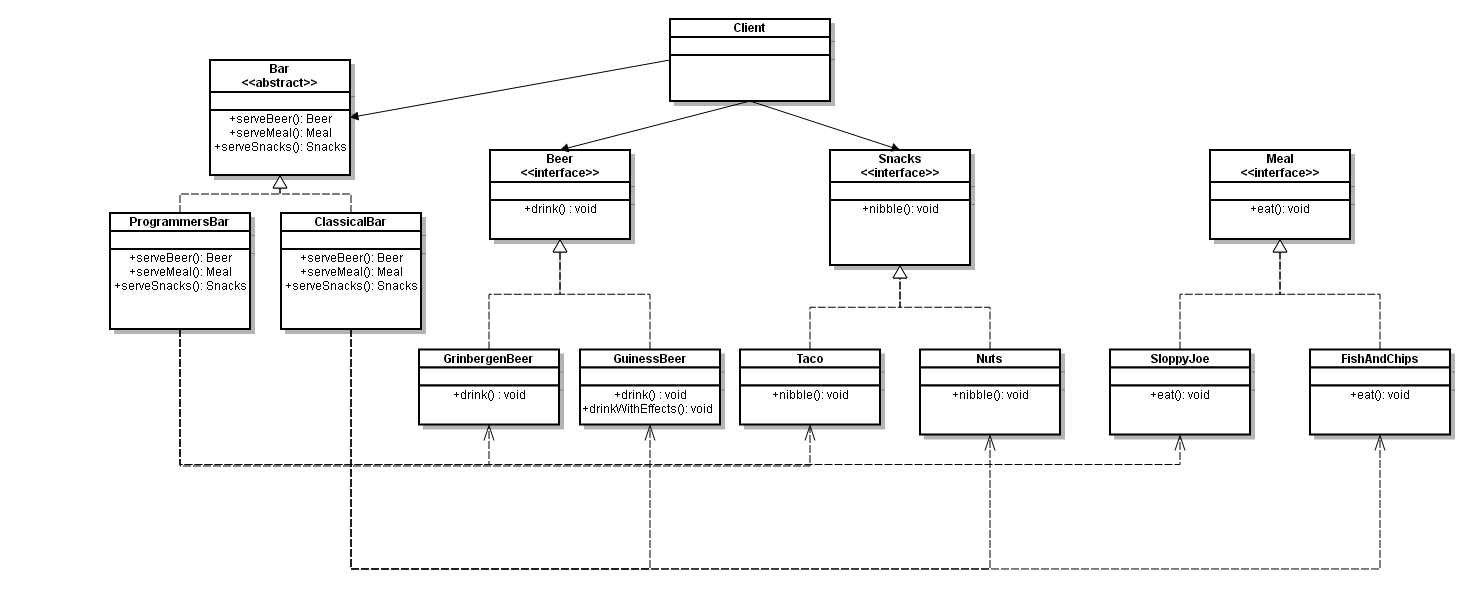
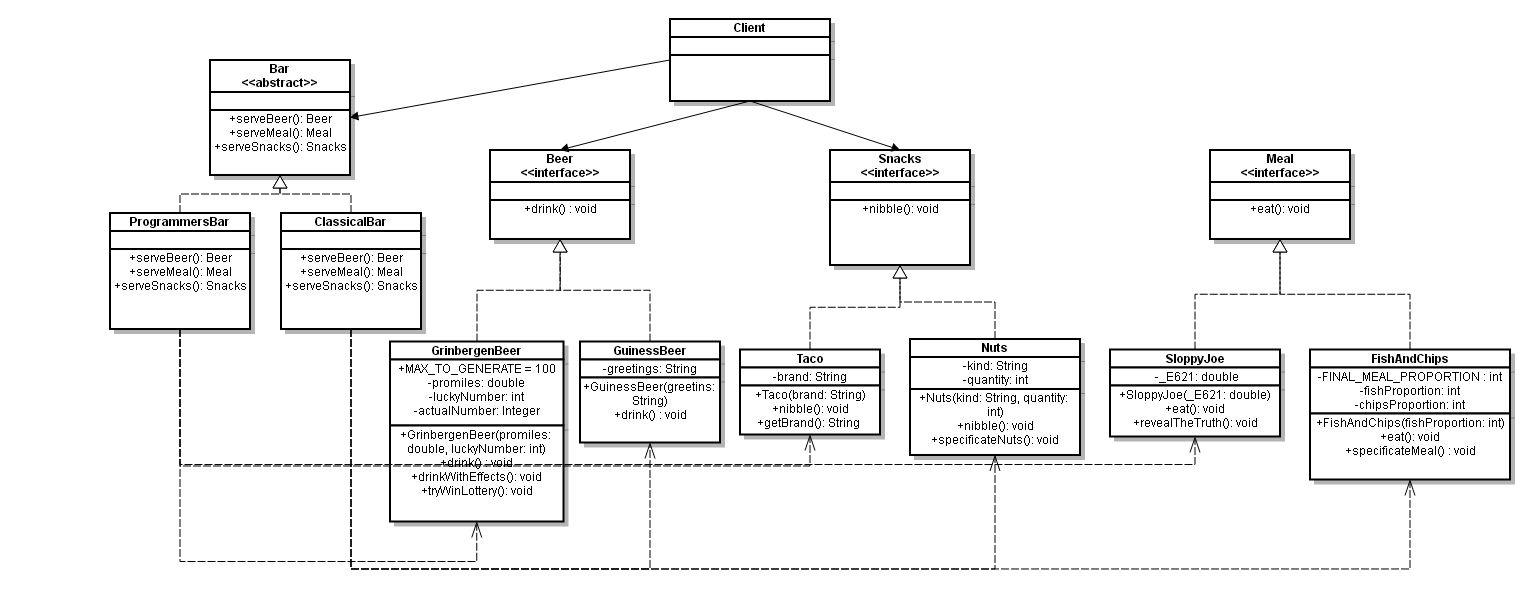
Add more parameters to Abstract Factory using method producer and update UML!!

diff --git a/ObjectiveTechnologies/AbstractFactory/MethodProducer/src/com/toohightoplay/vu/mif/ot1/products/GrinbergenBeer.java b/ObjectiveTechnologies/AbstractFactory/MethodProducer/src/com/toohightoplay/vu/mif/ot1/products/GrinbergenBeer.java
@@ -1,17 +1,50 @@
 package com.toohightoplay.vu.mif.ot1.products;
 
+import java.security.SecureRandom;
+
 /**
  * @author TooHighToPlay
  */
 public class GrinbergenBeer implements Beer {
-
+	
+	public static final int MAX_TO_GENERATE = 100;
+	
+	private double promiles;
+	
+	private int luckyNumber;
+	
+	private Integer actualNumber = null;
+	
+	/**
+	 * I would choose luckyNumber wisely. [0..100]???
+	 * 
+	 * @param promiles
+	 * @param luckyNumber
+	 */
+	public GrinbergenBeer(double promiles, int luckyNumber) {
+		this.promiles = promiles;
+		this.luckyNumber = luckyNumber;
+	}
+	
+	public void tryWinLottery() {
+		if (actualNumber == null) {
+			SecureRandom randomGenerator = new SecureRandom();
+			actualNumber = randomGenerator.nextInt(MAX_TO_GENERATE);
+		}
+		if (actualNumber == luckyNumber) {
+			System.out.println("U, the Mighty Warrior of the Great Wall Of Justice please welcome a gift for you. "
+					+ "Now you can code Clojure. Yes,.. it's not a dream.. If it is then dreams come true...");
+		}
+		System.out.println("U lost the lotterry sir. Try another time");
+	}
+	
     @Override
     public void drink() {
-    	System.out.println("I drank this Grinbergen almost as fast as Rob Ashton.");
+    	System.out.println("I drank this " + promiles + " promiles Grinbergen almost as fast as Rob Ashton.");
     }
     
     public void drinkWithEffects() {
     	System.out.println("I drasgsf thisss Grinbergen with an attitude. Be my paladin, be my guest, you will always be loved. Just bring me moore beer");
     }
-
+    
 }

diff --git a/ObjectiveTechnologies/AbstractFactory/MethodProducer/src/com/toohightoplay/vu/mif/ot1/factories/ProgrammersBar.java b/ObjectiveTechnologies/AbstractFactory/MethodProducer/src/com/toohightoplay/vu/mif/ot1/factories/ProgrammersBar.java
@@ -1,5 +1,7 @@
 package com.toohightoplay.vu.mif.ot1.factories;
 
+import java.security.SecureRandom;
+
 import com.toohightoplay.vu.mif.ot1.products.Beer;
 import com.toohightoplay.vu.mif.ot1.products.GrinbergenBeer;
 import com.toohightoplay.vu.mif.ot1.products.Meal;
@@ -15,19 +17,24 @@ public class ProgrammersBar extends Bar {
     @Override
     public Snacks serveSnacks() {
 
-        return new Taco();
+        return new Taco("Mexican");
     }
 
     @Override
     public Meal serveMeal() {
 
-        return new SloppyJoe();
+        return new SloppyJoe(1.8);
     }
 
     @Override
     public Beer serveBeer() {
-
-        return new GrinbergenBeer();
+    	
+        return new GrinbergenBeer(5.8, generateLuckyNumber());
+    }
+    
+    private int generateLuckyNumber() {
+    	SecureRandom randomGenerator = new SecureRandom();
+    	return randomGenerator.nextInt(GrinbergenBeer.MAX_TO_GENERATE);
     }
 
 }

diff --git a/ObjectiveTechnologies/AbstractFactory/MethodProducer/src/com/toohightoplay/vu/mif/ot1/products/SloppyJoe.java b/ObjectiveTechnologies/AbstractFactory/MethodProducer/src/com/toohightoplay/vu/mif/ot1/products/SloppyJoe.java
@@ -1,13 +1,34 @@
 package com.toohightoplay.vu.mif.ot1.products;
 
+import java.security.SecureRandom;
+
 /**
  * @author TooHighToPlay
  */
 public class SloppyJoe implements Meal {
 
+	private double _E621;
+	
+	/**
+	 * Quantity of specific and special ingredient must be provided.
+	 * 
+	 * @param _E621
+	 */
+	public SloppyJoe(double _E621) {
+		this._E621 = _E621;
+	}
+	
     @Override
     public void eat() {
     	System.out.println("Eating some delicious Sloppy Joe.. Mhm..");
     }
 
+    /**
+     * Reveals quantity of special ingredient.
+     */
+    public void revealTheTruth() {
+    	SecureRandom randomGenerator = new SecureRandom();
+    	System.out.println("Burger contains not so much but not so less E621, the Mighty Taste of All Time. It equals " 
+    			+ (_E621 * randomGenerator.nextInt()) + " milligrams of goodness. :)");
+    }
 }

diff --git a/ObjectiveTechnologies/AbstractFactory/MethodProducer/src/com/toohightoplay/vu/mif/ot1/products/FishAndChips.java b/ObjectiveTechnologies/AbstractFactory/MethodProducer/src/com/toohightoplay/vu/mif/ot1/products/FishAndChips.java
@@ -5,9 +5,28 @@ package com.toohightoplay.vu.mif.ot1.products;
  */
 public class FishAndChips implements Meal {
 
+	private int FINAL_MEAL_PROPORTION = 100;
+	
+	private int fishProportion;
+	
+	private int chipsProportion;
+
+	/**
+	 * Provide fish proportion. (Chips proportion will be 100-fishProportion)
+	 * @param fishProportion
+	 */
+	public FishAndChips(int fishProportion) {
+		this.fishProportion = fishProportion;
+		this.chipsProportion = FINAL_MEAL_PROPORTION - fishProportion;
+	}
+	
     @Override
     public void eat() {
     	System.out.println("Eating like in London pub.");
+    }
+    
+    public void specificateMeal() {
+    	System.out.println("This meal contains " + fishProportion + "% of fish and " + chipsProportion + "% of chips. Bon apetitte!");
     }
 
 }

diff --git a/ObjectiveTechnologies/AbstractFactory/MethodProducer/src/com/toohightoplay/vu/mif/ot1/products/Nuts.java b/ObjectiveTechnologies/AbstractFactory/MethodProducer/src/com/toohightoplay/vu/mif/ot1/products/Nuts.java
@@ -5,9 +5,28 @@ package com.toohightoplay.vu.mif.ot1.products;
  */
 public class Nuts implements Snacks {
 
+	private String kind;
+	
+	private int quantity;
+	
+	/**
+	 * Provide nut kind and quantity (grams).
+	 * 
+	 * @param kind
+	 * @param quantity
+	 */
+	public Nuts(String kind, int quantity) {
+		this.kind = kind;
+		this.quantity = quantity;
+	}
+	
 	@Override
 	public void nibble() {
 		System.out.println("Taking some nuts. Nibling..");
+	}
+	
+	public void specificateNuts() {
+		System.out.println("Here you are some " + kind + " nuts. Quantity equals " + quantity + " g. Have a great time dealing with them.");
 	}
 
 }

diff --git a/ObjectiveTechnologies/AbstractFactory/MethodProducer/src/com/toohightoplay/vu/mif/ot1/products/GuinessBeer.java b/ObjectiveTechnologies/AbstractFactory/MethodProducer/src/com/toohightoplay/vu/mif/ot1/products/GuinessBeer.java
@@ -5,9 +5,22 @@ package com.toohightoplay.vu.mif.ot1.products;
  */
 public class GuinessBeer implements Beer {
 
+	private String greetings;
+	
+	public GuinessBeer(String greetings) {
+		this.greetings = greetings;
+	}
+	
     @Override
     public void drink() {
         System.out.println("Gently and softly.. Sip by sip.");
+    }
+    
+    /**
+     * Greeting letter from you princess.
+     */
+    public void readGreeting() {
+    	System.out.println(greetings);
     }
 
 }

diff --git a/ObjectiveTechnologies/AbstractFactory/MethodProducer/src/com/toohightoplay/vu/mif/ot1/factories/ClassicalBar.java b/ObjectiveTechnologies/AbstractFactory/MethodProducer/src/com/toohightoplay/vu/mif/ot1/factories/ClassicalBar.java
@@ -15,18 +15,18 @@ public class ClassicalBar extends Bar {
     @Override
     public Snacks serveSnacks() {
 
-        return new Nuts();
+        return new Nuts("almonds" , 50);
     }
 
     @Override
     public Meal serveMeal() {
 
-        return new FishAndChips();
+        return new FishAndChips(20);
     }
 
     @Override
     public Beer serveBeer() {
 
-        return new GuinessBeer();
+        return new GuinessBeer("Taste it. Believe it.");
     }
 }

diff --git a/ObjectiveTechnologies/AbstractFactory/MethodProducer/src/com/toohightoplay/vu/mif/ot1/Client.java b/ObjectiveTechnologies/AbstractFactory/MethodProducer/src/com/toohightoplay/vu/mif/ot1/Client.java
@@ -5,10 +5,7 @@ import java.util.Scanner;
 import com.toohightoplay.vu.mif.ot1.factories.Bar;
 import com.toohightoplay.vu.mif.ot1.factories.ClassicalBar;
 import com.toohightoplay.vu.mif.ot1.factories.ProgrammersBar;
-import com.toohightoplay.vu.mif.ot1.products.Beer;
 import com.toohightoplay.vu.mif.ot1.products.GrinbergenBeer;
-import com.toohightoplay.vu.mif.ot1.products.Meal;
-import com.toohightoplay.vu.mif.ot1.products.Snacks;
 
 /**
  * @author TooHighToPlay

diff --git a/ObjectiveTechnologies/AbstractFactory/MethodProducer/src/com/toohightoplay/vu/mif/ot1/products/Taco.java b/ObjectiveTechnologies/AbstractFactory/MethodProducer/src/com/toohightoplay/vu/mif/ot1/products/Taco.java
@@ -5,9 +5,19 @@ package com.toohightoplay.vu.mif.ot1.products;
  */
 public class Taco implements Snacks {
 
+	private String brand;
+	
+	public Taco(String brand) {
+		this.brand = brand;
+	}
+	
 	@Override
 	public void nibble() {
 		System.out.println("Taco is my favorite hero. Can I order one more?");
+	}
+	
+	public String getBrand() {
+		return this.brand;
 	}
 
 }

diff --git a/ObjectiveTechnologies/AbstractFactory/MethodProducer/src/com/toohightoplay/vu/mif/ot1/products/Beer.java b/ObjectiveTechnologies/AbstractFactory/MethodProducer/src/com/toohightoplay/vu/mif/ot1/products/Beer.java
@@ -4,6 +4,6 @@ package com.toohightoplay.vu.mif.ot1.products;
  * @author TooHighToPlay
  */
 public interface Beer {
-
+	
     public void drink();
 }
